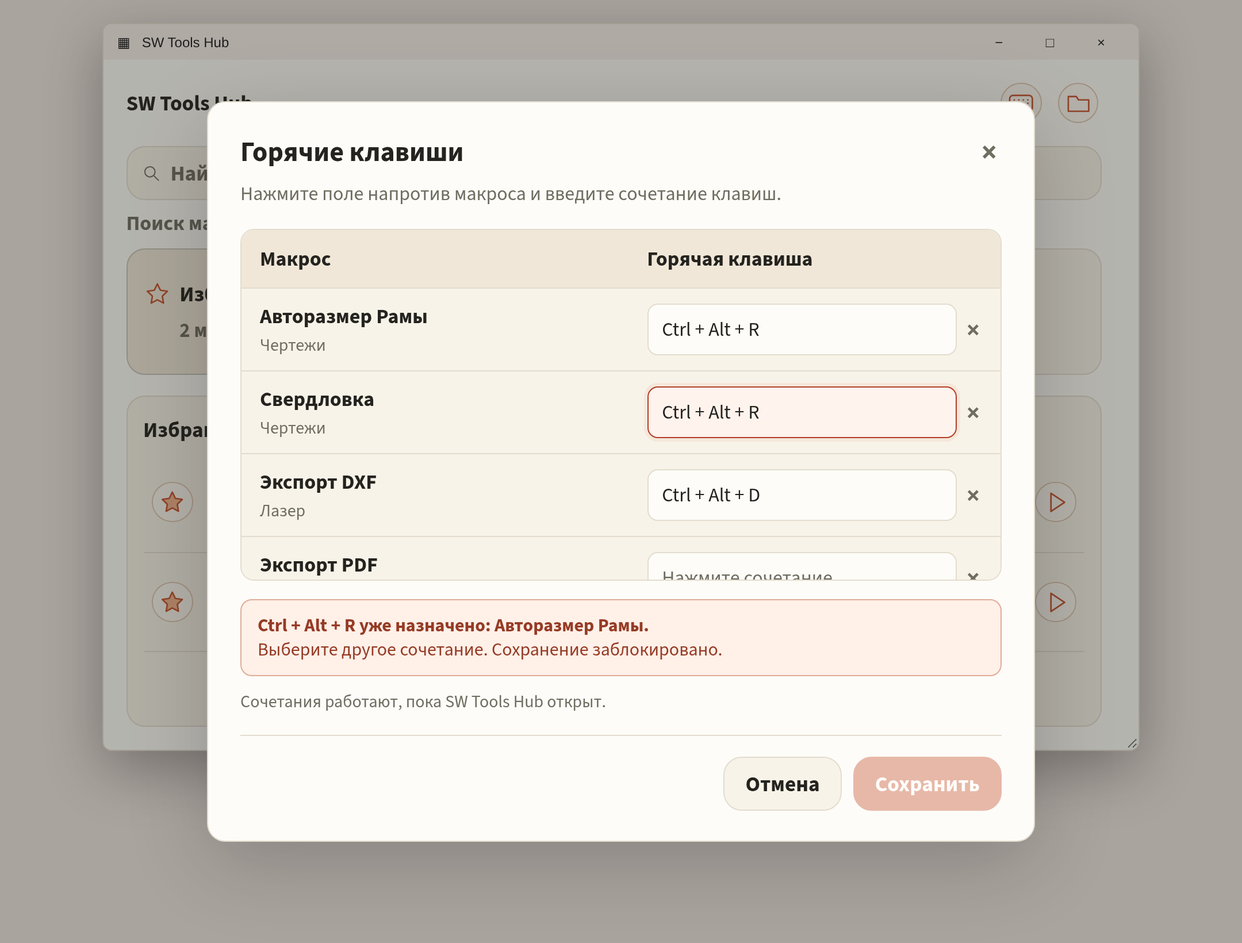
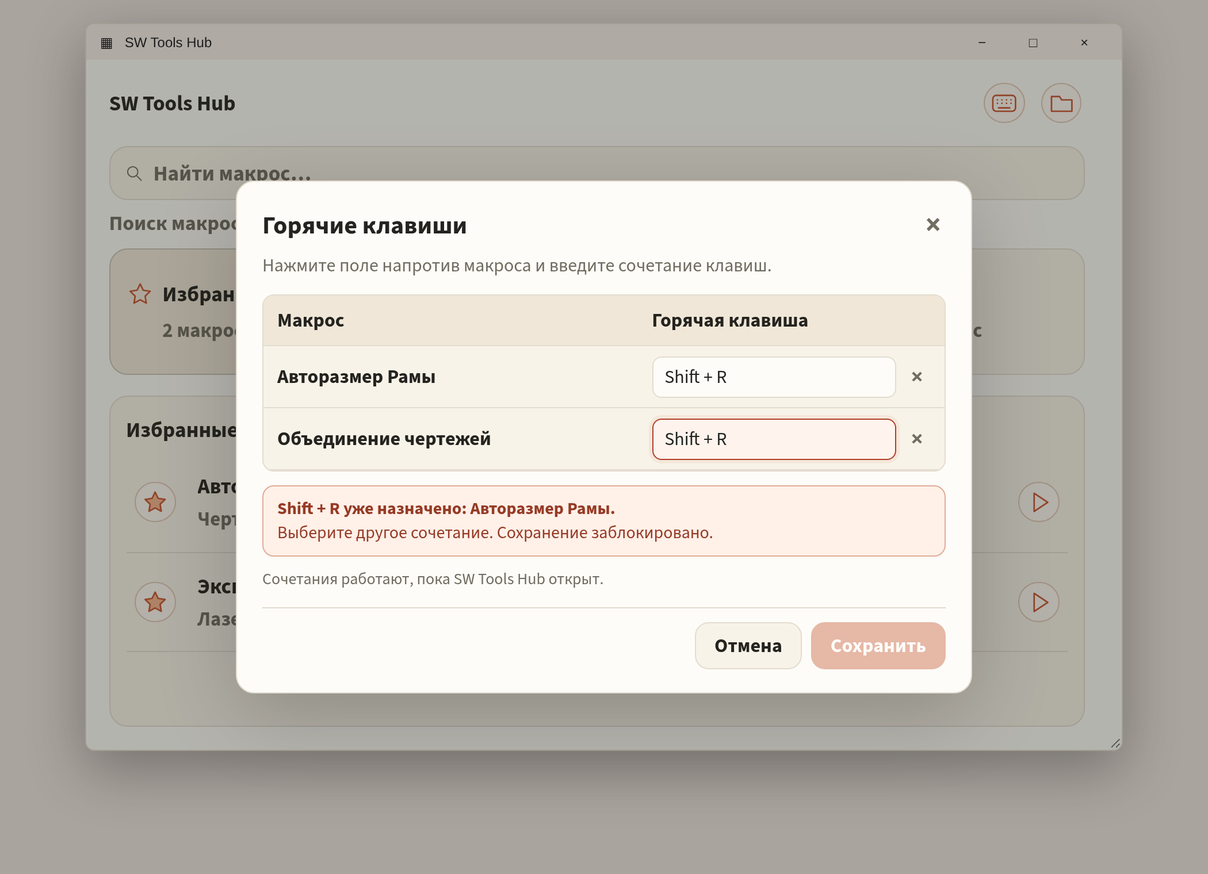
Уменьшить окно горячих клавиш и ускорить эффект наведения

Changed region(s): [[0.0619, 0.0309, 0.9286, 0.8967]]

diff --git a/docs/preview/index.html b/docs/preview/index.html
@@ -57,11 +57,11 @@ button:focus-visible{outline:2px solid #706D61;outline-offset:2px}
 .toolbar button::before,.row-star::before,.row-play::before{content:'';position:absolute;inset:calc(5px * var(--s));z-index:-1;border:1px solid #DEC7B1;border-radius:50%;background:#FCF7F0;transition:transform .15s ease,background-color .15s ease,border-color .15s ease}
 .toolbar button,.row-star,.row-play,.tile,.macro-name{transition:background-color .15s ease,color .15s ease,border-color .15s ease}
 .toolbar button svg,.row-play svg,.tile svg{transition:transform .15s ease,color .15s ease}
-.toolbar button:hover,.row-star:hover,.row-play:hover,.tile:hover,.macro-name:hover{transition-delay:.18s}
-.toolbar button:hover::before,.row-play:hover::before{background:#C6532E;border-color:#C6532E;transform:scale(1.2);transition-delay:.18s}
-.row-star:hover::before{background:#F6E8DA;transition-delay:.18s}
-.toolbar button:hover svg,.row-play:hover svg,.tile:hover svg{transition-delay:.18s}
-.tile small{transition:color .15s ease}.tile:hover small{transition-delay:.18s}
+.toolbar button:hover,.row-star:hover,.row-play:hover,.tile:hover,.macro-name:hover{transition-delay:.09s}
+.toolbar button:hover::before,.row-play:hover::before{background:#C6532E;border-color:#C6532E;transform:scale(1.2);transition-delay:.09s}
+.row-star:hover::before{background:#F6E8DA;transition-delay:.09s}
+.toolbar button:hover svg,.row-play:hover svg,.tile:hover svg{transition-delay:.09s}
+.tile small{transition:color .15s ease}.tile:hover small{transition-delay:.09s}
 dialog{width:min(560px,calc(100vw - 40px));padding:24px;border:1px solid #E3DCCF;border-radius:16px;background:#FDFCF8;color:#24231F;box-shadow:0 18px 70px #0003;font:inherit}
 dialog::backdrop{background:#24231F55}dialog h2{margin-bottom:12px}dialog p{font-size:16px;color:#706D61;margin:0 0 20px}dialog label{display:block;margin:12px 0 6px}dialog select{width:100%;padding:10px;font:inherit;border:1px solid #E3DCCF;border-radius:10px;background:#F8F3E8;color:#24231F}.entry-buttons{display:flex;justify-content:flex-end;gap:10px;margin-top:24px}.entry-buttons button{padding:10px 18px}
 
@@ -118,12 +118,28 @@ new ResizeObserver(()=>app.style.setProperty('--s',Math.max(.8,Math.min(1.5,app.
 <div class="entry-buttons"><button id="hk-cancel">Отмена</button><button id="hk-save" class="primary" disabled>Сохранить</button></div></dialog>
 <script>
 const hk=document.getElementById('hotkeys'),message=document.getElementById('hk-message'),save=document.getElementById('hk-save');
-const items=[['frame','Авторазмер Рамы','Чертежи'],['drill','Свердловка','Чертежи'],['dxf','Экспорт DXF','Лазер'],['pdf','Экспорт PDF','Чертежи'],['bom','Спецификация','Сборки'],['rename','Обозначения компонентов','Сборки'],['cut','Карта раскроя','Лазер'],['views','Обновление видов','Чертежи']];
-let bindings={frame:'Ctrl + Alt + R',dxf:'Ctrl + Alt + D'},draft={},dirty=false,invalid=new Map();
+const items=[['frame','Авторазмер Рамы','Чертежи'],['merge','Объединение чертежей','Чертежи']];
+let bindings={frame:'Shift + R'},draft={},dirty=false,invalid=new Map();
 const toolbar=document.createElement('button');toolbar.id='shortcut-toolbar';toolbar.title='Горячие клавиши';toolbar.setAttribute('aria-label','Горячие клавиши');toolbar.style.color='#C6532E';toolbar.innerHTML='<svg viewBox="0 0 24 24"><rect x="2" y="5" width="20" height="14" rx="3"/><path d="M6 9h.1M10 9h.1M14 9h.1M18 9h.1M6 12h.1M10 12h.1M14 12h.1M18 12h.1M7 16h10"/></svg>';document.querySelector('.toolbar').prepend(toolbar);
 function validate(){invalid.clear();const seen={};for(const input of hk.querySelectorAll('input')){input.classList.remove('invalid');input.removeAttribute('aria-invalid');const value=input.value;if(!value)continue;if(seen[value]){invalid.set(input.dataset.id,seen[value]);input.classList.add('invalid');input.setAttribute('aria-invalid','true');}else seen[value]=input.dataset.id;}save.disabled=!dirty||invalid.size>0;message.className='notice'+(invalid.size?' error':'');if(invalid.size){const [id,other]=[...invalid][0];message.replaceChildren();const strong=document.createElement('strong');strong.textContent=draft[id]+' уже назначено: '+items.find(x=>x[0]===other)[1]+'.';message.append(strong,document.createElement('br'),'Выберите другое сочетание. Сохранение заблокировано.');}else message.textContent='Используйте Ctrl, Alt или Shift вместе с буквой, цифрой или F-клавишей.';}
-function render(){const rows=document.getElementById('hk-rows');rows.replaceChildren();for(const [id,name,category] of items){const tr=document.createElement('tr'),td=document.createElement('td'),key=document.createElement('td'),group=document.createElement('div'),input=document.createElement('input'),clear=document.createElement('button'),small=document.createElement('small');small.textContent=category;td.append(name,small);group.className='key-field';input.readOnly=true;input.value=draft[id]||'';input.dataset.id=id;input.placeholder='Нажмите сочетание';input.setAttribute('aria-label','Горячая клавиша: '+name);input.onkeydown=e=>{if(['Tab','Escape'].includes(e.key))return;e.preventDefault();if(['Control','Alt','Shift','Meta'].includes(e.key))return;if(!(e.ctrlKey||e.altKey||e.shiftKey)||e.metaKey||!/^(Key[A-Z]|Digit[0-9]|F([1-9]|1[0-9]|2[0-4]))$/.test(e.code)){message.className='notice error';message.textContent='Добавьте Ctrl, Alt или Shift к букве, цифре или F-клавише.';return;}input.value=[e.ctrlKey?'Ctrl':null,e.altKey?'Alt':null,e.shiftKey?'Shift':null,e.code.replace(/^Key|^Digit/,'')].filter(Boolean).join(' + ');draft[id]=input.value;dirty=true;validate();};clear.className='clear';clear.textContent='×';clear.setAttribute('aria-label','Удалить сочетание: '+name);clear.onclick=()=>{delete draft[id];input.value='';dirty=true;validate();input.focus();};group.append(input,clear);key.append(group);tr.append(td,key);rows.append(tr);}}
+function render(){const rows=document.getElementById('hk-rows');rows.replaceChildren();for(const [id,name,category] of items){const tr=document.createElement('tr'),td=document.createElement('td'),key=document.createElement('td'),group=document.createElement('div'),input=document.createElement('input'),clear=document.createElement('button'),small=document.createElement('small');small.textContent=category;td.append(name,small);group.className='key-field';input.readOnly=true;input.value=draft[id]||'';input.dataset.id=id;input.placeholder='выберете сочетание';input.setAttribute('aria-label','Горячая клавиша: '+name);input.onkeydown=e=>{if(['Tab','Escape'].includes(e.key))return;e.preventDefault();if(['Control','Alt','Shift','Meta'].includes(e.key))return;if(!(e.ctrlKey||e.altKey||e.shiftKey)||e.metaKey||!/^(Key[A-Z]|Digit[0-9]|F([1-9]|1[0-9]|2[0-4]))$/.test(e.code)){message.className='notice error';message.textContent='Добавьте Ctrl, Alt или Shift к букве, цифре или F-клавише.';return;}input.value=[e.ctrlKey?'Ctrl':null,e.altKey?'Alt':null,e.shiftKey?'Shift':null,e.code.replace(/^Key|^Digit/,'')].filter(Boolean).join(' + ');draft[id]=input.value;dirty=true;validate();};clear.className='clear';clear.textContent='×';clear.setAttribute('aria-label','Удалить сочетание: '+name);clear.onclick=()=>{delete draft[id];input.value='';dirty=true;validate();input.focus();};group.append(input,clear);key.append(group);tr.append(td,key);rows.append(tr);}}
 toolbar.onclick=()=>{draft={...bindings};dirty=false;render();validate();hk.showModal();};save.onclick=()=>{validate();if(invalid.size||!dirty)return;bindings={...draft};hk.close();};document.getElementById('hk-cancel').onclick=()=>hk.close();hk.querySelector('.close').onclick=()=>hk.close();
 </script>
+
+<style>
+#hotkeys{width:640px;padding:20px 22px;max-width:calc(100vw - 32px)}
+#hotkeys .dialog-head{margin-bottom:8px}#hotkeys h2{font-size:22px}#hotkeys p{font-size:16px;margin-bottom:14px}
+.table-scroll{height:auto;max-height:216px;overflow-y:scroll;border-radius:10px;scrollbar-width:thin}
+#hotkeys th{font-size:17px;padding:10px 12px}#hotkeys th:first-child{width:55%}
+#hotkeys td{height:54px;padding:8px 12px;font-size:17px;white-space:nowrap;overflow:hidden;text-overflow:ellipsis}
+#hotkeys td:first-child{line-height:36px}#hotkeys td small{display:none}
+#hotkeys input{height:36px;line-height:22px;padding:6px 10px;font-size:16px;border-radius:8px}
+#hotkeys .clear{width:24px;height:32px;flex-shrink:0;font-size:20px;display:grid;place-items:center}
+#hotkeys .notice{min-height:0;margin-top:12px;padding:0;border:0;background:transparent;font-size:15px;line-height:1.4}
+#hotkeys .notice.error{padding:9px 12px;background:#FFF0E8;border:1px solid #E0AC96}
+#hotkeys .notice strong{font-size:15px}#hotkeys .footnote{font-size:14px;margin:10px 0 0}
+#hotkeys .entry-buttons{padding-top:12px;margin-top:14px;gap:8px}#hotkeys .entry-buttons button{font-size:17px;padding:8px 16px;border-radius:12px}
+@media(max-width:600px){#hotkeys{padding:16px}#hotkeys td,#hotkeys th{padding-left:8px;padding-right:8px}#hotkeys td{font-size:15px}#hotkeys input{font-size:15px}}
+</style>
 
 </body></html>

diff --git a/addin/portable/HotkeyDialog.cs b/addin/portable/HotkeyDialog.cs
@@ -2,6 +2,7 @@ using System;
 using System.Collections.Generic;
 using System.Drawing;
 using System.Linq;
+using System.Runtime.InteropServices;
 using System.Windows.Forms;
 
 namespace SWToolsHub.Portable
@@ -9,6 +10,13 @@ namespace SWToolsHub.Portable
     // Capture accelerators before menu/dialog processing as well as ordinary KeyDown input.
     internal sealed class HotkeyTextBox : TextBox
     {
+        protected override void OnHandleCreated(EventArgs e)
+        {
+            base.OnHandleCreated(e);
+            SendMessage(Handle, 0x1501, new IntPtr(1), "выберете сочетание"); // EM_SETCUEBANNER
+        }
+        [DllImport("user32.dll", CharSet = CharSet.Unicode)]
+        private static extern IntPtr SendMessage(IntPtr window, int message, IntPtr wParam, string text);
         protected override bool ProcessCmdKey(ref Message msg, Keys keyData)
         {
             var key = keyData & Keys.KeyCode;
@@ -16,12 +24,22 @@ namespace SWToolsHub.Portable
             OnKeyDown(new KeyEventArgs(keyData)); return true;
         }
     }
+    internal sealed class HotkeyNameLabel : Label
+    {
+        protected override void OnPaint(PaintEventArgs e)
+        {
+            var bounds = new Rectangle(Padding.Left, 0, Math.Max(1, ClientSize.Width - Padding.Horizontal), ClientSize.Height);
+            TextRenderer.DrawText(e.Graphics, Text, Font, bounds, ForeColor,
+                TextFormatFlags.SingleLine | TextFormatFlags.VerticalCenter | TextFormatFlags.EndEllipsis | TextFormatFlags.NoPrefix);
+            using (var pen = new Pen(UiTheme.Border)) e.Graphics.DrawLine(pen, 0, Height - 1, Width, Height - 1);
+        }
+    }
     internal sealed class HotkeyDialog : Form
     {
         private readonly Dictionary<string, int> draft;
         private readonly Dictionary<string, TextBox> fields = new Dictionary<string, TextBox>(StringComparer.OrdinalIgnoreCase);
         private readonly Dictionary<string, string> names = new Dictionary<string, string>(StringComparer.OrdinalIgnoreCase);
-        private readonly Label notice = new Label { Dock = DockStyle.Fill, AutoEllipsis = true, Padding = new Padding(10) };
+        private readonly Label notice = new Label { Dock = DockStyle.Fill, AutoEllipsis = true, Padding = new Padding(0, 8, 0, 0) };
         private readonly RoundedButton save = new RoundedButton { Text = "Сохранить", AutoSize = true };
         private readonly Font regular = UiTheme.CreateRegularFont();
         private readonly Func<Dictionary<string, int>, string> apply;
@@ -31,38 +49,46 @@ namespace SWToolsHub.Portable
             this.apply = apply;
             draft = new Dictionary<string, int>(bindings, StringComparer.OrdinalIgnoreCase);
             Text = "Горячие клавиши"; Font = UiTheme.CreateFont(); BackColor = UiTheme.Background; ForeColor = UiTheme.Text;
-            AutoScaleMode = AutoScaleMode.Dpi; ClientSize = new Size(720, 700); MinimumSize = SizeFromClientSize(new Size(580, 560));
+            AutoScaleMode = AutoScaleMode.Dpi; ClientSize = new Size(640, 420); MinimumSize = SizeFromClientSize(new Size(580, 400));
             StartPosition = FormStartPosition.CenterParent; MinimizeBox = false; MaximizeBox = false;
-            var layout = new TableLayoutPanel { Dock = DockStyle.Fill, Padding = new Padding(24), ColumnCount = 1, RowCount = 7 };
+            var layout = new TableLayoutPanel { Dock = DockStyle.Fill, Padding = new Padding(20), ColumnCount = 1, RowCount = 7 };
             layout.ColumnStyles.Add(new ColumnStyle(SizeType.Percent, 100));
-            foreach (float height in new[] { 42f, 58f, 42f }) layout.RowStyles.Add(new RowStyle(SizeType.Absolute, height));
+            foreach (float height in new[] { 34f, 44f, 38f }) layout.RowStyles.Add(new RowStyle(SizeType.Absolute, height));
             layout.RowStyles.Add(new RowStyle(SizeType.Percent, 100));
-            foreach (float height in new[] { 86f, 38f, 58f }) layout.RowStyles.Add(new RowStyle(SizeType.Absolute, height));
+            foreach (float height in new[] { 76f, 30f, 52f }) layout.RowStyles.Add(new RowStyle(SizeType.Absolute, height));
             layout.Controls.Add(new Label { Text = "Горячие клавиши", Dock = DockStyle.Fill }, 0, 0);
             layout.Controls.Add(new Label { Text = "Нажмите поле напротив макроса и введите сочетание клавиш.", Dock = DockStyle.Fill, Font = regular, ForeColor = UiTheme.Muted }, 0, 1);
-            var heading = new TableLayoutPanel { Dock = DockStyle.Fill, ColumnCount = 2, BackColor = UiTheme.Selected, Margin = new Padding(0) };
-            heading.ColumnStyles.Add(new ColumnStyle(SizeType.Percent, 51)); heading.ColumnStyles.Add(new ColumnStyle(SizeType.Percent, 49));
+            var heading = new TableLayoutPanel { Dock = DockStyle.Fill, ColumnCount = 2, RowCount = 1, BackColor = UiTheme.Selected, Margin = new Padding(0) };
+            heading.ColumnStyles.Add(new ColumnStyle(SizeType.Percent, 55)); heading.ColumnStyles.Add(new ColumnStyle(SizeType.Percent, 45));
             heading.Controls.Add(new Label { Text = "Макрос", Dock = DockStyle.Fill, Padding = new Padding(12, 6, 0, 0) }, 0, 0);
             heading.Controls.Add(new Label { Text = "Горячая клавиша", Dock = DockStyle.Fill, Padding = new Padding(12, 6, 0, 0) }, 1, 0);
             layout.Controls.Add(heading, 0, 2);
             var viewport = new Panel { Dock = DockStyle.Fill, AutoScroll = true, BackColor = UiTheme.Surface, Margin = new Padding(0), TabStop = false };
             var rows = new TableLayoutPanel { AutoSize = true, AutoSizeMode = AutoSizeMode.GrowAndShrink, Dock = DockStyle.Top, ColumnCount = 2, Margin = new Padding(0), Padding = new Padding(0) };
-            rows.ColumnStyles.Add(new ColumnStyle(SizeType.Percent, 51)); rows.ColumnStyles.Add(new ColumnStyle(SizeType.Percent, 49));
+            rows.ColumnStyles.Add(new ColumnStyle(SizeType.Percent, 55)); rows.ColumnStyles.Add(new ColumnStyle(SizeType.Percent, 45));
             var byPath = macros.ToDictionary(m => m.id, StringComparer.OrdinalIgnoreCase);
             var paths = macros.Select(m => m.id).Concat(bindings.Keys).Distinct(StringComparer.OrdinalIgnoreCase).ToArray();
+            ClientSize = new Size(640, 314 + Math.Max(1, Math.Min(paths.Length, 4)) * 54);
             int index = 0;
             foreach (string path in paths) {
                 Macro macro; bool found = byPath.TryGetValue(path, out macro);
                 string name = found ? macro.name : System.IO.Path.GetFileNameWithoutExtension(path);
                 names[path] = name;
-                var title = new Label { Text = name + "\n" + (found ? macro.category : "Нет в текущей библиотеке"), Dock = DockStyle.Fill, AutoEllipsis = true, Padding = new Padding(12, 8, 4, 4), Margin = new Padding(0) };
-                var keyLayout = new TableLayoutPanel { Dock = DockStyle.Fill, ColumnCount = 2, Padding = new Padding(8, 14, 8, 8), Margin = new Padding(0) };
+                var title = new HotkeyNameLabel { Text = name, Dock = DockStyle.Fill, TextAlign = ContentAlignment.MiddleLeft, AutoEllipsis = true, Padding = new Padding(12, 0, 4, 0), Margin = new Padding(0), UseMnemonic = false };
+                var keyLayout = new TableLayoutPanel { Dock = DockStyle.Fill, ColumnCount = 2, RowCount = 1, Padding = new Padding(8, 6, 8, 6), Margin = new Padding(0) };
+                keyLayout.RowStyles.Add(new RowStyle(SizeType.Percent, 100));
                 keyLayout.ColumnStyles.Add(new ColumnStyle(SizeType.Percent, 100)); keyLayout.ColumnStyles.Add(new ColumnStyle(SizeType.Absolute, 30));
                 var input = new HotkeyTextBox { Dock = DockStyle.Fill, ReadOnly = true, Font = regular, BackColor = UiTheme.Background, ForeColor = UiTheme.Text, BorderStyle = BorderStyle.None, AccessibleName = "Горячая клавиша: " + name, ShortcutsEnabled = false };
                 int value; input.Text = draft.TryGetValue(path, out value) ? Hotkey.Format(value) : "";
                 fields[path] = input;
-                var fieldFrame = new RoundedPanel { Dock = DockStyle.Fill, BackColor = UiTheme.Background, Padding = new Padding(10, 6, 10, 4), Margin = new Padding(0) };
-                input.Dock = DockStyle.Top; fieldFrame.Controls.Add(input);
+                var fieldFrame = new RoundedPanel { Anchor = AnchorStyles.Left | AnchorStyles.Right, Height = 36, BackColor = UiTheme.Background, Margin = new Padding(0) };
+                input.Dock = DockStyle.None; fieldFrame.Controls.Add(input);
+                Action alignInput = () => {
+                    int inset = Math.Max(1, (int)Math.Round(10f * fieldFrame.DeviceDpi / 96f));
+                    input.SetBounds(inset, Math.Max(0, (fieldFrame.ClientSize.Height - input.PreferredHeight) / 2), Math.Max(1, fieldFrame.ClientSize.Width - inset * 2), input.PreferredHeight);
+                };
+                fieldFrame.SizeChanged += (s, e) => alignInput(); input.FontChanged += (s, e) => alignInput();
+                Shown += (s, e) => alignInput();
                 input.Enter += (s, e) => { fieldFrame.BorderColor = UiTheme.AccentInk; fieldFrame.Invalidate(); };
                 input.Leave += (s, e) => { fieldFrame.BorderColor = UiTheme.Border; fieldFrame.Invalidate(); };
                 // PreviewKeyDown prevents F-keys and Alt combinations becoming dialog commands.
@@ -82,8 +108,9 @@ namespace SWToolsHub.Portable
                 StyleButton(clear); clear.Padding = new Padding(0); clear.Borderless = true; clear.BackColor = UiTheme.Surface;
                 clear.Click += (s, e) => { draft.Remove(path); input.Text = ""; dirty = true; ValidateDraft(); input.Focus(); };
                 keyLayout.Controls.Add(fieldFrame, 0, 0); keyLayout.Controls.Add(clear, 1, 0);
-                rows.RowStyles.Add(new RowStyle(SizeType.Absolute, 78)); rows.Controls.Add(title, 0, index); rows.Controls.Add(keyLayout, 1, index++);
-                var tip = new ToolTip(); tip.SetToolTip(title, path); title.Disposed += (s, e) => tip.Dispose();
+                rows.RowStyles.Add(new RowStyle(SizeType.Absolute, 54)); rows.Controls.Add(title, 0, index); rows.Controls.Add(keyLayout, 1, index++);
+                keyLayout.Paint += (sender, e) => { using (var pen = new Pen(UiTheme.Border)) e.Graphics.DrawLine(pen, 0, keyLayout.Height - 1, keyLayout.Width, keyLayout.Height - 1); };
+                var tip = new ToolTip(); tip.SetToolTip(title, name + "\n" + (found ? macro.category : "Нет в текущей библиотеке") + "\n" + path); title.Disposed += (s, e) => tip.Dispose();
             }
             if (paths.Length == 0) { rows.RowStyles.Add(new RowStyle(SizeType.Absolute, 90)); rows.Controls.Add(new Label { Text = "В библиотеке пока нет макросов. Выберите папку и добавьте .swp.", AutoSize = true, Padding = new Padding(12) }, 0, 0); }
             viewport.Controls.Add(rows);
@@ -120,7 +147,7 @@ namespace SWToolsHub.Portable
                 foreach (var path in paths) { fields[path].BackColor = Color.FromArgb(255, 240, 232); fields[path].Parent.BackColor = fields[path].BackColor; fields[path].Parent.Invalidate(); }
                 error = Hotkey.Format(duplicate.Key) + " уже назначено: " + names[paths[0]] + ". Выберите другое сочетание. Сохранение заблокировано.";
             }
-            notice.BackColor = error == null ? UiTheme.Surface : Color.FromArgb(255, 240, 232);
+            notice.BackColor = error == null ? UiTheme.Background : Color.FromArgb(255, 240, 232);
             notice.ForeColor = error == null ? UiTheme.Muted : UiTheme.AccentInk;
             notice.Font = regular;
             notice.Text = error ?? "Используйте Ctrl, Alt или Shift вместе с буквой, цифрой или F-клавишей. Крестик удаляет назначение.";

diff --git a/addin/portable/UiTheme.cs b/addin/portable/UiTheme.cs
@@ -94,7 +94,7 @@ namespace SWToolsHub.Portable
         private bool hoverReady;
         private bool stopping;
         private float hoverProgress;
-        private readonly Timer hoverDelay = new Timer { Interval = 180 };
+        private readonly Timer hoverDelay = new Timer { Interval = 90 };
         private readonly Timer hoverAnimation = new Timer { Interval = 15 };
         public RoundedButton()
         {

diff --git a/README.md b/README.md
@@ -37,7 +37,7 @@
 `%LOCALAPPDATA%\SWToolsHub\portable.json`, поле `Hotkeys`, по полному пути `.swp`.
 Они восстанавливаются после перезапуска и сохраняются при обновлении EXE/ZIP.
 Не переименовывайте и не перемещайте макросы без необходимости: путь является ключом.
-Сохранённые файлы вне выбранной библиотеки видны в таблице как «Нет в текущей библиотеке»;
+Сохранённые файлы вне выбранной библиотеки имеют в подсказке отметку «Нет в текущей библиотеке»;
 назначение можно удалить, но такой макрос не запускается до выбора соответствующей библиотеки.
 
 Сочетания глобальные: работают при открытом SW Tools Hub, в том числе когда окно свёрнуто
@@ -45,6 +45,8 @@
 повторный запуск блокируется. После закрытия приложения клавиши освобождаются.
 Запуск использует сохранённую или известную точку входа; для неизвестного макроса без неё
 появится обычный диалог выбора процедуры. Сменить процедуру можно через ▶ у строки.
+
+Окно горячих клавиш компактное: один макрос на строку, разделители, поля с подсказкой «выберете сочетание». Для длинного списка доступна прокрутка.
 
 ## Продолжить в новом чате
 
@@ -54,7 +56,7 @@
 
 - Главное окно: 900 × 600, минимум 480 × 320, относительные размеры иконок, две колонки при узкой ширине, общая вертикальная прокрутка.
 - Навигация: Избранное / Чертежи / Сборки / Лазер. В шапке клавиатура и папка, запуск — у строк и по горячим клавишам.
-- Кремовые карточки, терракотовые иконки; hover через 180 ms, переход около 150 ms, круг и значок растут на 20% без сдвига соседей.
+- Кремовые карточки, терракотовые иконки; hover через 90 ms, переход около 150 ms, круг и значок растут на 20% без сдвига соседей.
 - Source Sans 3 Bold 14 pt; выпадающие списки — Regular 14 pt. Оба шрифта входят в ZIP под SIL OFL.
 - Последний макет стрелок списков **утверждён и перенесён в программу**. Ограничение предыдущего шага «пока только превью» снято пользователем.
 

diff --git a/docs/INSTALL.md b/docs/INSTALL.md
@@ -88,7 +88,7 @@ powershell.exe -NoProfile -ExecutionPolicy Bypass -File .\Uninstall.ps1
 `%LOCALAPPDATA%\SWToolsHub\portable.json`, поле `Hotkeys`, по полному пути `.swp`.
 Они восстанавливаются после перезапуска и сохраняются при обновлении EXE/ZIP.
 Не переименовывайте и не перемещайте макросы без необходимости: путь является ключом.
-Сохранённые файлы вне выбранной библиотеки видны в таблице как «Нет в текущей библиотеке»;
+Сохранённые файлы вне выбранной библиотеки имеют в подсказке отметку «Нет в текущей библиотеке»;
 назначение можно удалить, но такой макрос не запускается до выбора соответствующей библиотеки.
 
 Сочетания глобальные: работают при открытом SW Tools Hub, в том числе когда окно свёрнуто
